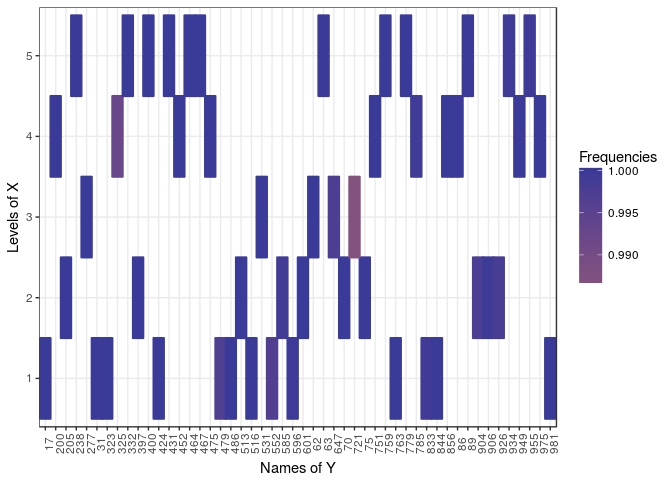
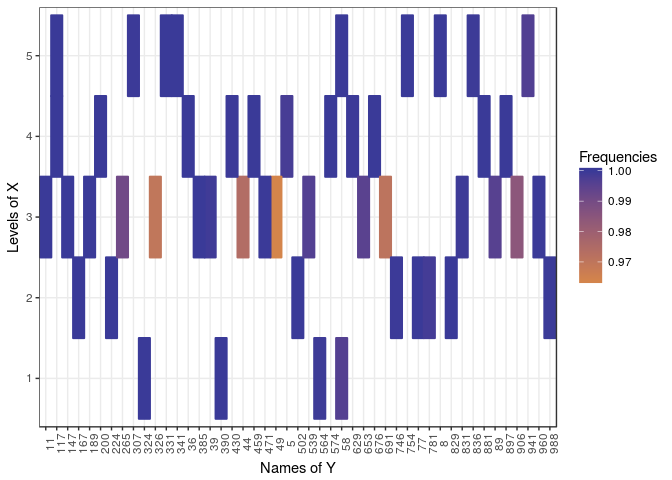
New_readme

Changed region(s): [[0.0312, 0.0312, 0.9375, 0.9688], [0.9375, 0.3438, 0.9688, 0.375]]

diff --git a/README.md b/README.md
@@ -74,9 +74,9 @@ whitening_choice(E_hat, c("AR1", "ARMA", "nonparam"), pAR = 1, qMA = 1)
 ```
 
     ##          Pvalue    Decision
-    ## AR1       0.457 WHITE NOISE
-    ## ARMA 1 1  0.474 WHITE NOISE
-    ## nonparam  0.947 WHITE NOISE
+    ## AR1       0.769 WHITE NOISE
+    ## ARMA 1 1  0.773 WHITE NOISE
+    ## nonparam  0.992 WHITE NOISE
 
 We then select the simplest model that allows us to remove the dependence in the data, in that case the AR(1) modelling. We compute the square root of the inverse of the estimator of the covariance matrix of each row of the residuals matrix using the AR(1) modelling as follows:
 
@@ -89,7 +89,6 @@ The idea is then to use the Lasso criterion introduced by Tibshirani in 1996, an
 𝒴 = 𝒳ℬ + ℰ,
  where 𝒴, ℬ and ℰ are vectors and 𝒳 is a matrix, the Lasso estimator of ℬ is defined by
 In order to be able to use the Lasso criterion we will apply the *v**e**c* operator to
-
 Variable selection
 ------------------
 
@@ -133,10 +132,16 @@ If we take a threshold of 0.95, meaning that we keep as non null values only the
 An exemple in metabolomics
 ==========================
 
-In this section we study a LC-MS (Liquid Chromatography-Mass Spectrometry) data set made of African copals samples. The samples correspond to ethanolic extracts of copals produced by trees belonging to two genera Copaifera (C) and Trachylobium (T) with a second level of classification coming from the geographical provenance of the Copaifera samples (West (W) or East (E) Africa). Since all the Trachylobium samples come from East Africa, we can use the modeling proposed in where *X* is a one-way ANOVA design matrix with 3 levels. Our goal is to identify the most important features (the *m*/*z* values) characterizing the different levels.
+In this section we study a LC-MS (Liquid Chromatography-Mass Spectrometry) data set made of African copals samples. The samples correspond to ethanolic extracts of copals produced by trees belonging to two genera Copaifera (C) and Trachylobium (T) with a second level of classification coming from the geographical provenance of the Copaifera samples (West (W) or East (E) Africa). Since all the Trachylobium samples come from East Africa, we can use the modeling proposed in where *X* is a one-way ANOVA design matrix with 3 levels. Our goal is to identify the most important features (the *m*/*z* values) characterizing the different levels. In order to speed up the computation time, we decided to only study the 200 first columns of the responses matrix.
 
 ``` r
 data("copals_camera")
+Y <- scale(Y[,1:200]) 
+```
+
+In order to analyze the whole responses matrix the last command line has to be replaced by
+
+``` r
 Y <- scale(Y) 
 ```
 
@@ -158,7 +163,7 @@ Then we test if the columns of the residuals are independent using the Portmante
 whitening_test(E_hat)
 ```
 
-    ## [1] 0
+    ## [1] 5.676735e-229
 
 The *p*-value is smaller than 0.05 and thus the hypothesis that each row of *E* is a white noise is rejected. We try our different covariance modellings for the residuals and see if one manages to remove the dependence among the columns of the residuals matrix by using a Portmanteau test.
 
@@ -168,8 +173,8 @@ whitening_choice(E_hat, c("AR1", "nonparam", "ARMA"), pAR = 1, qMA = 1)
 
     ##          Pvalue       Decision
     ## AR1           0 NO WHITE NOISE
-    ## nonparam  0.664    WHITE NOISE
-    ## ARMA 1 1      0 NO WHITE NOISE
+    ## nonparam  0.992    WHITE NOISE
+    ## ARMA 1 1  0.653    WHITE NOISE
 
 From this result, we observe that the non parametric modelling is the only one which removes the dependence.
 
@@ -187,7 +192,7 @@ Frequencies <-
   )
 ```
 
-The following plot displays the frequencies at which each coefficient of *B* is considered as being non null which corresponds to the features (*m*/*z* values) characterizing the different levels.
+The following plot displays the selected coefficients in *B* that is the selected features (*m*/*z* values) characterizing the different levels when the threshold is equal to 0.999.
 
 ``` r
 Frequencies$Names_of_Y <- as.numeric(gsub('X','',Frequencies$Names_of_Y))
@@ -199,7 +204,7 @@ p<-ggplot(data=Frequencies[Frequencies$Frequencies>=0.999,],
 p
 ```
 
-![](README_files/figure-markdown_github/unnamed-chunk-17-1.png)
+![](README_files/figure-markdown_github/unnamed-chunk-18-1.png)
 
 Session Info
 ============
